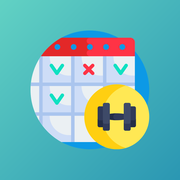
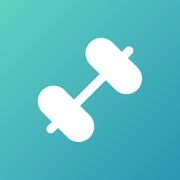
Icône : haltère blanche sur fond Lagon
Claude-Session: https://claude.ai/code/session_01CRkjZhTNFAEyfeuGiUoKU7

diff --git a/sw.js b/sw.js
@@ -1,6 +1,6 @@
 // Réseau d'abord, cache en secours. Tout nouveau fichier doit être ajouté à CORE
 // (node tools/check.mjs le contrôle).
-const CACHE = 'sport-v14';
+const CACHE = 'sport-v15';
 const CORE = [
   './',
   'index.html',
